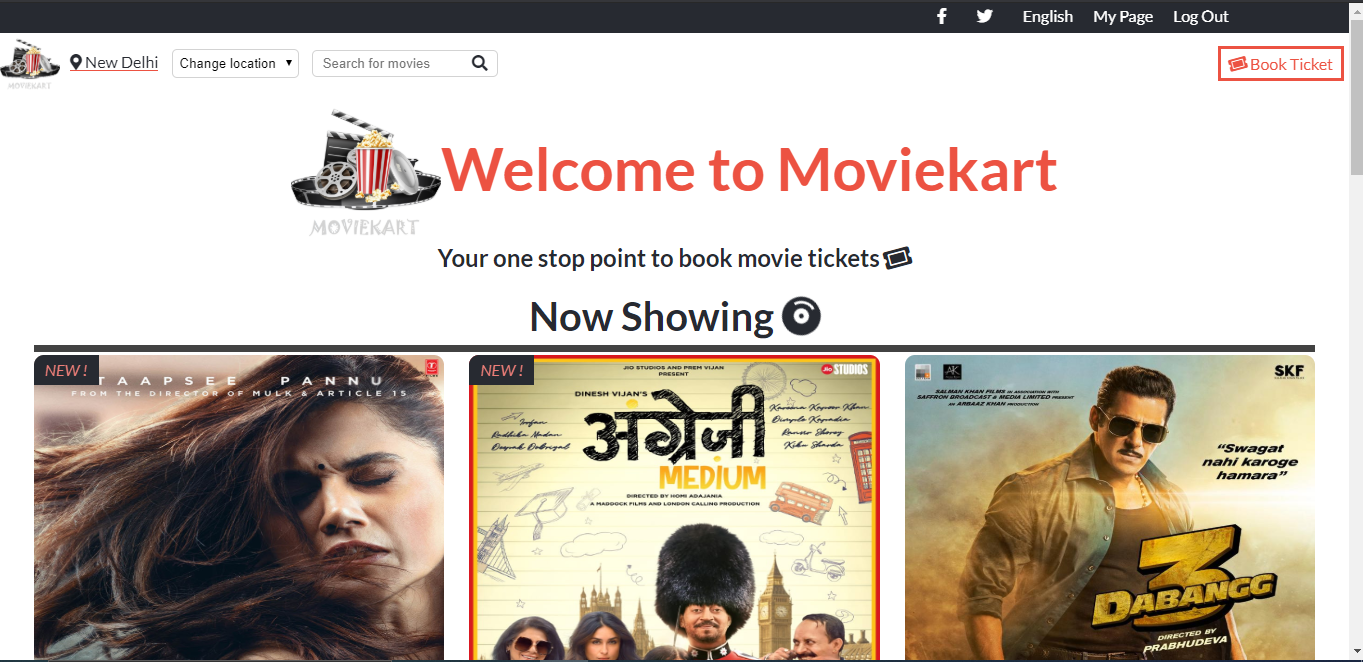
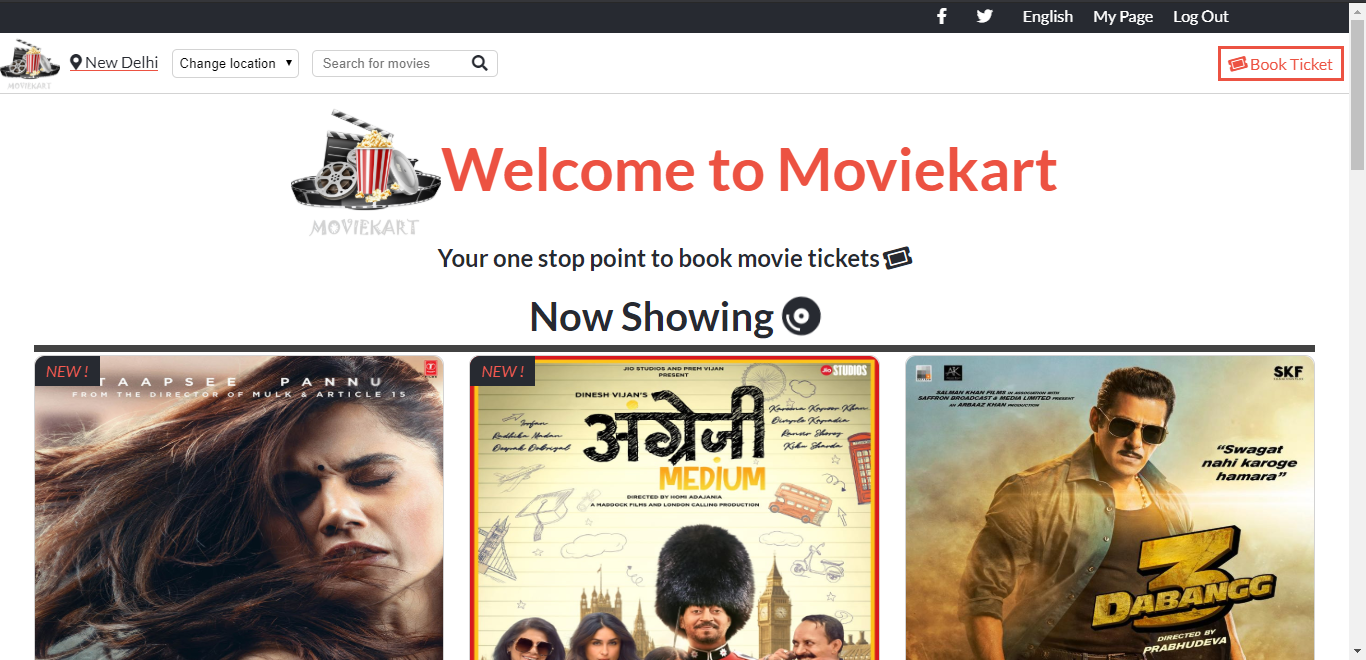
Added border to navbar on large screens

diff --git a/css/style.css b/css/style.css
@@ -552,6 +552,10 @@ a:hover {
 /* Media Queries */
 
 @media only screen and (min-width: 768px) {
+  .navbar {
+    border-bottom: 1px solid #d3d3d3;
+  }
+
   .fa-bars {
     display: none;
   }
